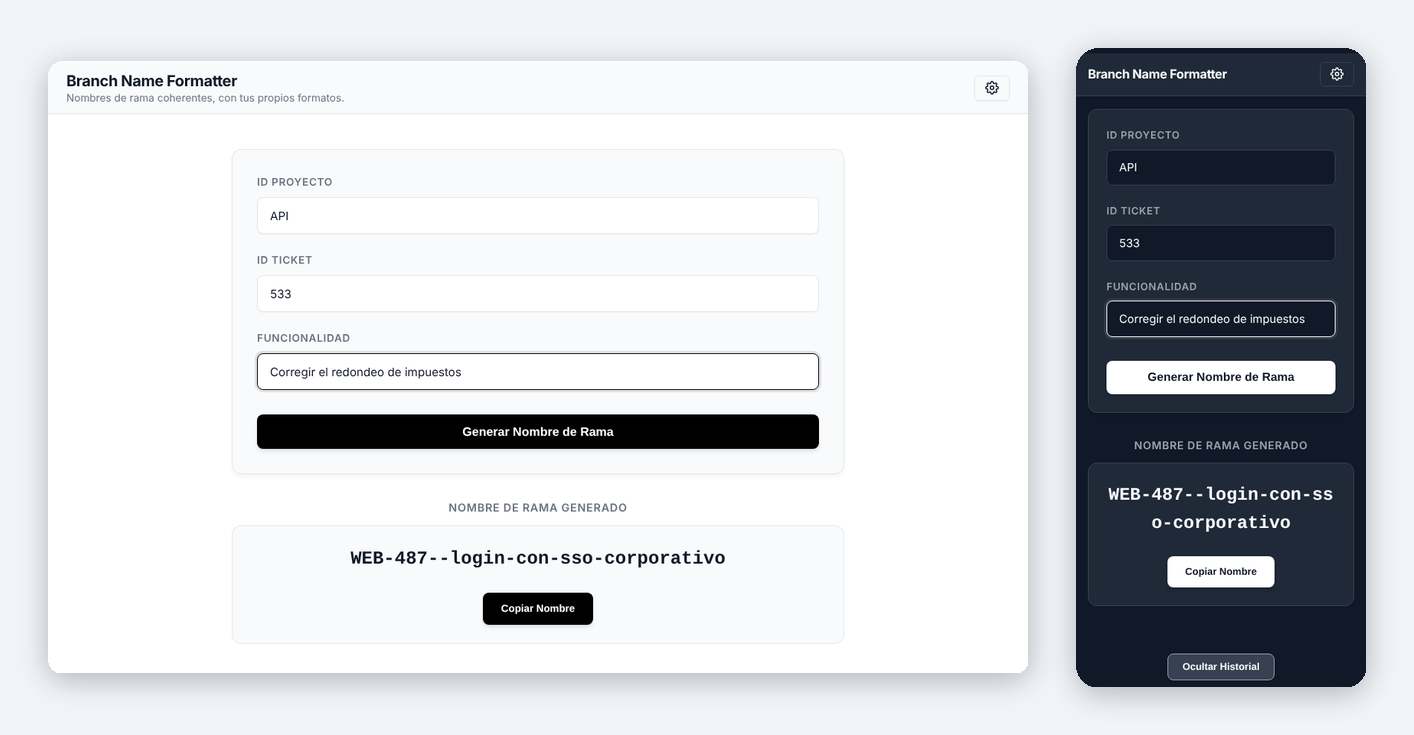
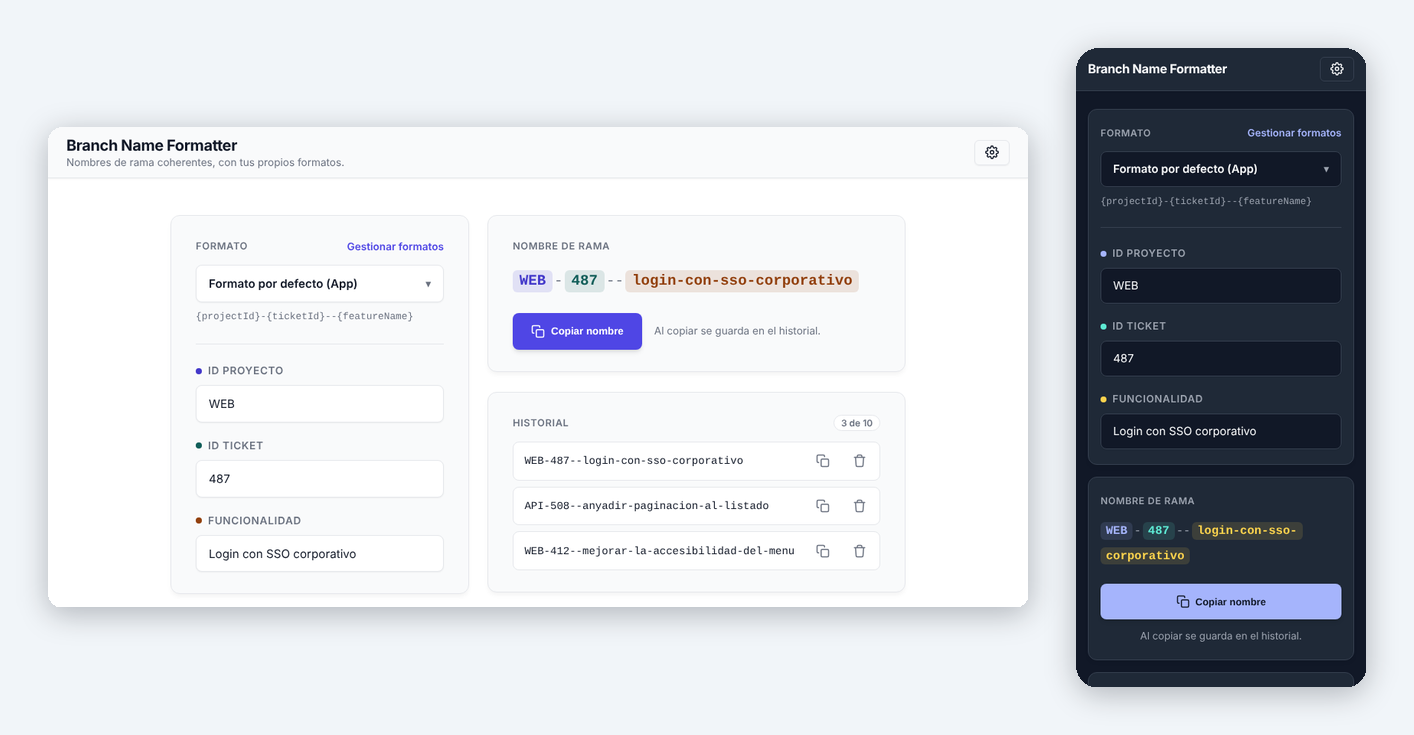
docs: describe the new screens and refresh screenshots
Architecture, README, design system (accent color), changelog, roadmap and the evolution page with a fourth stage, plus new screenshots, hero, comparison images and preview image.

Claude-Session: https://claude.ai/code/session_01JvgcQh45YDJ61aD3bk5PiS

diff --git a/docs/ARCHITECTURE_ES.md b/docs/ARCHITECTURE_ES.md
@@ -9,23 +9,27 @@ El **Branch Name Formatter** está construido con un enfoque en la simplicidad, 
 - **`BranchManager.ts`**: Una clase Singleton que gestiona la lista de ramas generadas, maneja el almacenamiento en `localStorage` (vía `LocalStorageManager`) y limita el historial a 10 registros.
 - **`FormatTypes.ts`**: Tipos del sistema de formatos dinámico — `BranchFormatTemplate` (un formato: id, nombre, plantilla, campos, idioma, visibilidad), `FieldDefinition` (un campo: id, etiqueta, tipo, capitalización), `Capitalization` (`UPPERCASE` / `LOWERCASE` / `AS_IS`) y `LanguageProfile` (los 6 idiomas soportados, usados para el saneado — independiente del idioma de la interfaz).
 - **`FormatManager.ts`**: Una clase estática que define los tres formatos predefinidos y gestiona toda la persistencia de formatos en `localStorage` — formatos personalizados, formatos predefinidos ocultos, el id del formato predeterminado de la app, y los overrides de idioma para formatos predefinidos (el único campo de un formato predefinido que se puede cambiar in situ).
-- **`BranchFormatter.ts`**: Convierte un `BranchFormatTemplate` + los valores de campo en el nombre de rama final. El saneado (tildes, puntos, espacios, caracteres especiales, guiones múltiples, y las reglas específicas por idioma en `LANGUAGE_RULES` para `/` y caracteres como `ñ`/`ß`) se aplica siempre y no es configurable; solo la capitalización por campo lo es.
+- **`FormatTemplate.ts`**: Revisa una plantilla en busca de errores: tokens que no coinciden con ningún campo, campos sin usar e ids de campo repetidos.
+- **`BranchFormatter.ts`**: Convierte un `BranchFormatTemplate` + los valores de campo en el nombre de rama final, o en sus segmentos (`formatSegments`) cuando la interfaz necesita colorear cada campo. El saneado (tildes, puntos, espacios, caracteres especiales, guiones múltiples, y las reglas específicas por idioma en `LANGUAGE_RULES` para `/` y caracteres como `ñ`/`ß`) se aplica siempre y no es configurable; solo la capitalización por campo lo es.
 
-### 2. Capa de Interfaz (`src/components`)
-- **`App.vue`**: Layout raíz — cabecera, hero, y alterna entre la vista principal y la de configuración.
-- **`AppHeader.vue`**: Cabecera fija con el selector de idioma y el botón de configuración.
-- **`AppMainView.vue`** / **`BranchForm.vue`**: El generador de ramas — renderiza dinámicamente los campos del formato seleccionado y emite el nombre generado.
-- **`BranchList.vue`** / **`BranchItem.vue`**: Muestran el historial de ramas.
-- **`AppConfigurationView.vue`**: La pantalla de gestión de formatos — lista todos los formatos, permite elegir el predeterminado de la app, y aloja el editor.
-- **`FormatEditor.vue`**: Edita un formato. Para formatos personalizados, el formulario completo (nombre, plantilla, idioma, campos) es editable. Para formatos predefinidos, solo el interruptor de visibilidad y el idioma son editables; el resto se muestra en solo lectura (clona el formato para personalizarlo del todo).
-- **`FormatPreview.vue`**: Renderiza un ejemplo en vivo del resultado de un formato, usando los propios id de sus campos como valores de ejemplo.
-- **`CustomSelect.vue`** / **`CustomModal.vue`**: Sustitutos compartidos y temáticos de los `<select>` nativos y los diálogos de confirmación, usados en toda la app.
+### 2. Capa de interfaz (`src/components`, `src/composables`)
+La aplicación tiene tres pantallas, que se eligen con el hash de la URL (`src/composables/useRoute.ts`): el generador (`#/`), los formatos (`#/formatos`, `#/formatos/<id>`, `#/formatos/nuevo`) y los ajustes (`#/ajustes`). El botón Atrás del navegador funciona entre ellas. Una pantalla con cambios sin guardar puede registrar una guarda, de modo que al pasar a otra pantalla desde dentro de la aplicación se pregunta antes.
+
+- **`App.vue`**: Estructura raíz. Cabecera, la pantalla que corresponde a la ruta y el pie.
+- **`AppHeader.vue`**: Cabecera fija con el botón de ajustes (componente compartido).
+- **Generador**: `AppMainView.vue` guarda el estado (formato elegido, valores de los campos, historial). `BranchForm.vue` es el selector de formato y los campos; `BranchOutput.vue` muestra el nombre y el botón de copiar; `BranchList.vue` / `BranchItem.vue` son el historial. El nombre se actualiza mientras escribes y al copiar también se guarda en el historial. El formato elegido se guarda como predeterminado, así que es el mismo en la próxima visita.
+- **`BranchName.vue`**: Dibuja un nombre como segmentos, un color por campo del formato (`--seg-1` a `--seg-6` en `base.css`, de forma cíclica), con los separadores en gris. Lo usan el generador y la vista previa del editor. Los segmentos salen de `BranchFormatter.formatSegments`.
+- **Formatos**: `FormatsView.vue` tiene la lista (`FormatList.vue`) a un lado y el detalle al otro, y en pantallas estrechas son dos pasos. Los formatos incluidos se abren en solo lectura (`FormatReadonly.vue`), con un selector de idioma y un botón para clonarlos. Los propios se abren en `FormatEditor.vue`. `FormatPreview.vue` muestra el resultado, con un ejemplo opcional para probar; `FormatTemplateView.vue` dibuja una plantilla con sus tokens en color. El editor avisa de los tokens que no coinciden con ningún campo y de los campos que no están en la plantilla (`src/core/FormatTemplate.ts`), sin impedir guardar.
+- **Ajustes**: `SettingsView.vue` tiene `PersonalizationCard.vue` (idioma y tema, compartida) y `BackupCard.vue` (exportar e importar los formatos, con el resultado en la propia tarjeta).
+- **`CustomSelect.vue`** / **`CustomModal.vue`**: Sustitutos compartidos y con tema de `<select>` nativo y de los diálogos de confirmación. Los modales solo se usan para confirmar un borrado y para preguntar si se descartan cambios.
 - **`LangSelector.vue`** / **`FlagIcon.vue`**: El selector de idioma de la interfaz.
-- **`AppFooter.vue`**: Muestra la versión de la app (desde `package.json`, inyectada en build como `__APP_VERSION__`) enlazada a su release de GitHub, más los enlaces de licencia/código fuente.
+- **`AppIcon.vue`**: Los pocos iconos que usan las pantallas.
+- **`AppFooter.vue`**: Muestra la versión de la aplicación (de `package.json`, inyectada al compilar como `__APP_VERSION__`) enlazada a su release de GitHub, y los enlaces de licencia y código.
+- **Estilos**: los tokens (incluido el color de acento y los colores de los campos) están en `assets/base.css`, y la disposición de las tres pantallas en `assets/branch.css`. El color de acento solo se define aquí, así que las otras herramientas del portafolio mantienen el suyo.
 
 ### 3. Localización (`src/i18n`)
 - Un archivo JSON por idioma soportado (`en`, `es`, `fr`, `de`, `it`, `pt`), cargados por `vue-i18n` en `index.ts`.
-- La mayoría de textos de la interfaz se resuelven con `$t('namespace.clave')`. Los nombres y etiquetas de campo de los formatos predefinidos se guardan como claves i18n (p. ej. `formats.gitflow.name`) dentro de los datos de `FormatManager`, en vez de texto literal, para que sigan el idioma de interfaz seleccionado; los formatos personalizados guardan texto literal en su lugar. Los componentes que muestran el `name`/`label` de un formato comprueban si contiene un punto para decidir si traducirlo o mostrarlo tal cual (ver `BranchForm.vue`, `AppConfigurationView.vue`).
+- La mayoría de textos de la interfaz se resuelven con `$t('namespace.clave')`. Los nombres y etiquetas de campo de los formatos predefinidos se guardan como claves i18n (p. ej. `formats.gitflow.name`) dentro de los datos de `FormatManager`, en vez de texto literal, para que sigan el idioma de interfaz seleccionado; los formatos personalizados guardan texto literal en su lugar. Los componentes que muestran el `name`/`label` de un formato comprueban si contiene un punto para decidir si traducirlo o mostrarlo tal cual (ver `BranchForm.vue`, `FormatList.vue`, `FormatsView.vue`).
 
 ## Privacidad y Datos
 Ningún dato sale del navegador del usuario. La app no usa APIs externas, cookies, analítica ni servicios de rastreo. Todo se almacena en el `localStorage` del navegador.

diff --git a/docs/ARCHITECTURE.md b/docs/ARCHITECTURE.md
@@ -9,23 +9,27 @@ The **Branch Name Formatter** is built with a focus on simplicity, maintainabili
 - **`BranchManager.ts`**: A singleton class that manages the list of generated branches, handles storage in `localStorage` (via `LocalStorageManager`), and limits the history to 10 records.
 - **`FormatTypes.ts`**: Types for the dynamic format system — `BranchFormatTemplate` (a format: id, name, template string, fields, language, visibility), `FieldDefinition` (a field: id, label, type, capitalization), `Capitalization` (`UPPERCASE` / `LOWERCASE` / `AS_IS`), and `LanguageProfile` (the 6 supported languages, used for sanitization rules — independent from the UI language).
 - **`FormatManager.ts`**: A static class that owns the three built-in formats and all persistence for formats in `localStorage` — custom formats, hidden built-in formats, the app's default format id, and language overrides for built-in formats (the only field on a built-in format that can be changed in place).
-- **`BranchFormatter.ts`**: Turns a `BranchFormatTemplate` + raw field values into the final branch name. Sanitization (accents, dots, spaces, special characters, multiple dashes, and the language-specific rules in `LANGUAGE_RULES` for `/` and characters like `ñ`/`ß`) is always applied and is not configurable; only the per-field capitalization is.
+- **`FormatTemplate.ts`**: Checks a template for mistakes: tokens that match no field, fields that are not used and repeated field ids.
+- **`BranchFormatter.ts`**: Turns a `BranchFormatTemplate` + raw field values into the final branch name, or into its segments (`formatSegments`) when the UI needs to color each field. Sanitization (accents, dots, spaces, special characters, multiple dashes, and the language-specific rules in `LANGUAGE_RULES` for `/` and characters like `ñ`/`ß`) is always applied and is not configurable; only the per-field capitalization is.
 
-### 2. UI Layer (`src/components`)
-- **`App.vue`**: Root layout — header, hero, and swaps between the main view and the configuration view.
-- **`AppHeader.vue`**: Sticky header with the language selector and the settings toggle.
-- **`AppMainView.vue`** / **`BranchForm.vue`**: The branch generator — renders the fields of the currently selected format dynamically and emits the generated name.
-- **`BranchList.vue`** / **`BranchItem.vue`**: Display the branch history.
-- **`AppConfigurationView.vue`**: The format management screen — lists all formats, lets you pick the app default, and hosts the editor.
-- **`FormatEditor.vue`**: Edits a format. For custom formats, the full form (name, template, language, fields) is editable. For built-in formats, only the visibility switch and the language are editable; the rest is shown read-only (clone the format to fully customize it).
-- **`FormatPreview.vue`**: Renders a live example of a format's output using its own field ids as placeholder values.
-- **`CustomSelect.vue`** / **`CustomModal.vue`**: Shared, themeable replacements for native `<select>` and confirm dialogs, used throughout the app.
+### 2. UI Layer (`src/components`, `src/composables`)
+The app has three screens, chosen by the hash of the URL (`src/composables/useRoute.ts`): the generator (`#/`), the formats (`#/formatos`, `#/formatos/<id>`, `#/formatos/nuevo`) and the settings (`#/ajustes`). The browser's Back button works between them. A screen with changes that are not saved can register a guard, so that moving to another screen from inside the app asks first.
+
+- **`App.vue`**: Root layout. Header, the screen that matches the route, and the footer.
+- **`AppHeader.vue`**: Sticky header with the settings toggle (shared component).
+- **Generator**: `AppMainView.vue` owns the state (selected format, field values, history). `BranchForm.vue` is the format selector and the fields; `BranchOutput.vue` shows the name and the copy button; `BranchList.vue` / `BranchItem.vue` are the history. The name updates while you type and copying also saves it to the history. The selected format is stored as the default one, so it is the same on the next visit.
+- **`BranchName.vue`**: Draws a name as segments, one color per field of the format (`--seg-1` to `--seg-6` in `base.css`, cycling), with the separators in grey. It is used by the generator and by the preview in the editor. The segments come from `BranchFormatter.formatSegments`.
+- **Formats**: `FormatsView.vue` has the list (`FormatList.vue`) on one side and the detail on the other, and on narrow screens they are two steps. Built-in formats open read-only (`FormatReadonly.vue`), with a language selector and a button to clone them. Custom formats open in `FormatEditor.vue`. `FormatPreview.vue` shows the result, with an optional example to try; `FormatTemplateView.vue` draws a template with its tokens colored. The editor warns about tokens that match no field and fields that are not in the template (`src/core/FormatTemplate.ts`), without blocking the save.
+- **Settings**: `SettingsView.vue` has `PersonalizationCard.vue` (language and theme, shared) and `BackupCard.vue` (export and import of the formats, with the result shown in the card).
+- **`CustomSelect.vue`** / **`CustomModal.vue`**: Shared, themeable replacements for native `<select>` and confirm dialogs. The modals are only used to confirm a delete and to ask about discarding changes.
 - **`LangSelector.vue`** / **`FlagIcon.vue`**: The UI language switcher.
+- **`AppIcon.vue`**: The few icons the screens use.
 - **`AppFooter.vue`**: Shows the app version (from `package.json`, injected at build time as `__APP_VERSION__`) linked to its GitHub release, plus license/source links.
+- **Styles**: the tokens (including the accent color and the colors of the fields) are in `assets/base.css`, and the layout of the three screens in `assets/branch.css`. The accent color is only defined here, so the other portfolio tools keep their own.
 
 ### 3. Localization (`src/i18n`)
 - One JSON file per supported language (`en`, `es`, `fr`, `de`, `it`, `pt`), loaded by `vue-i18n` in `index.ts`.
-- Most UI strings are looked up with `$t('namespace.key')`. Built-in format names and field labels are stored as i18n keys (e.g. `formats.gitflow.name`) inside `FormatManager`'s data rather than literal text, so they follow the selected UI language; custom formats store literal text instead. Components that display a format's `name`/field `label` check for a `.` to decide whether to translate it or show it as-is (see `BranchForm.vue`, `AppConfigurationView.vue`).
+- Most UI strings are looked up with `$t('namespace.key')`. Built-in format names and field labels are stored as i18n keys (e.g. `formats.gitflow.name`) inside `FormatManager`'s data rather than literal text, so they follow the selected UI language; custom formats store literal text instead. Components that display a format's `name`/field `label` check for a `.` to decide whether to translate it or show it as-is (see `BranchForm.vue`, `FormatList.vue`, `FormatsView.vue`).
 
 ## Privacy & Data
 No data ever leaves the user's browser. The app uses no external APIs, cookies, analytics or tracking services. Everything is stored in the browser's `localStorage`.

diff --git a/docs/evolution/README-es.md b/docs/evolution/README-es.md
@@ -4,11 +4,11 @@
 
 Cómo Branch Name Formatter pasó de su primer commit a hoy, con las capturas para verlo.
 
-![Branch Name Formatter en tres etapas, escritorio](branch-name-formatter-evolution-desktop.png)
+![Branch Name Formatter en cuatro etapas, escritorio](branch-name-formatter-evolution-desktop.png)
 
 ## La historia
 
-Branch Name Formatter es la aplicación cuyo diseño más ha cambiado, y su cambio más radical es el rediseño de agosto de 2026. El generador oscuro con una sola fila de campos pasó a ser una herramienta construida alrededor de formatos que defines tú: un editor con vista previa en vivo, mayúsculas por campo, perfiles de idioma y un historial. En octubre se alineó con las otras herramientas, lo que simplificó la página (sin bloque de presentación, los hechos en el pie) y le dio los componentes compartidos.
+Branch Name Formatter es la aplicación cuyo diseño más ha cambiado, y su cambio más radical es el rediseño de agosto de 2026. El generador oscuro con una sola fila de campos pasó a ser una herramienta construida alrededor de formatos que defines tú: un editor con vista previa en vivo, mayúsculas por campo, perfiles de idioma y un historial. En octubre se alineó con las otras herramientas, lo que simplificó la página (sin bloque de presentación, los hechos en el pie) y le dio los componentes compartidos. En noviembre la pantalla principal pasó a ser un banco de trabajo, con el nombre vivo mientras escribes y los formatos en su propia sección.
 
 Versiones: la v0.1.0 (octubre de 2025) y la v0.2.0 (mayo de 2026) se quedan como estaban. El rediseño de agosto de 2026 se documentó como 1.0.0 en el registro de cambios pero nunca se etiquetó; sale ahora junto con el trabajo de octubre.
 
@@ -21,12 +21,13 @@ Versiones: la v0.1.0 (octubre de 2025) y la v0.2.0 (mayo de 2026) se quedan como
 | Mayo de 2026 | v0.2.0: selector de idioma propio con banderas y mejor accesibilidad con teclado. |
 | Agosto de 2026 | Rediseño completo y un nuevo sistema de formatos: el editor de formatos propios con vista previa en vivo, mayúsculas por campo, perfiles de idioma y el historial. |
 | Octubre de 2026 | Software libre (AGPL-3.0), sin Google Analytics ni banner de cookies, un sistema de diseño compartido con las otras dos herramientas, CI que condiciona cada despliegue y la versión 1.0.0, el paso siguiente a la 0.1.0 y la 0.2.0. |
+| Noviembre de 2026 | La pantalla principal se convierte en un banco de trabajo: el nombre se actualiza mientras escribes, cada campo de su color, y copiar lo guarda en el historial en un solo paso. Los formatos tienen su propia sección, con una lista y un detalle, un ejemplo para probar y un aviso de errores en la plantilla. Los ajustes conservan el idioma, el tema y la copia de seguridad. Acento índigo. |
 
 ## En cifras
 
 | | Antes (agosto de 2026) | Ahora |
 | --- | --- | --- |
-| Tests automáticos | 63 | 80 |
+| Tests automáticos | 63 | 129 |
 | Licencia | Todos los derechos reservados | AGPL-3.0 |
 | Analítica | Google Analytics y banner de cookies | Ninguna |
 | Despliegue | Solo si pasan los tests | Solo si pasan lint, formato, componentes compartidos, tests y build |
@@ -36,11 +37,11 @@ La columna "antes" es el estado del proyecto el 28 de agosto de 2026, justo ante
 
 ## Imágenes
 
-Todas las imágenes están en esta carpeta y en [`../screenshots`](../screenshots); usan datos de ejemplo.
+Todas las imágenes están en esta carpeta y en [`../screenshots`](../screenshots); usan datos de ejemplo y no muestran las teselas del mapa porque se capturaron sin conexión.
 
-- [`branch-name-formatter-evolution-desktop.png`](branch-name-formatter-evolution-desktop.png): Tres etapas una junto a otra, en escritorio
-- [`branch-name-formatter-evolution-mobile.png`](branch-name-formatter-evolution-mobile.png): Las mismas tres etapas en el móvil
-- [`branch-name-formatter-formats.png`](../screenshots/branch-name-formatter-formats.png): El editor de formatos propios
+- [`branch-name-formatter-evolution-desktop.png`](branch-name-formatter-evolution-desktop.png): Cuatro etapas una junto a otra, en escritorio
+- [`branch-name-formatter-evolution-mobile.png`](branch-name-formatter-evolution-mobile.png): Las mismas cuatro etapas en el móvil
+- [`branch-name-formatter-formats.png`](../screenshots/branch-name-formatter-formats.png): La sección de formatos propios, con el editor y el ejemplo para probar
 
 ## Cómo se ha construido
 

diff --git a/docs/evolution/README.md b/docs/evolution/README.md
@@ -4,11 +4,11 @@
 
 How Branch Name Formatter went from its first commit to today, with the screenshots to show it.
 
-![Branch Name Formatter at three stages, desktop](branch-name-formatter-evolution-desktop.png)
+![Branch Name Formatter at four stages, desktop](branch-name-formatter-evolution-desktop.png)
 
 ## The story
 
-Branch Name Formatter is the app whose design changed the most, and its most radical change is the redesign of August 2026. The dark generator with a single row of fields became a tool built around formats you define yourself: an editor with live preview, capitalization per field, language profiles and a history. In October it was aligned with the other tools, which simplified the page (no hero block, facts in the footer) and gave it the shared components.
+Branch Name Formatter is the app whose design changed the most, and its most radical change is the redesign of August 2026. The dark generator with a single row of fields became a tool built around formats you define yourself: an editor with live preview, capitalization per field, language profiles and a history. In October it was aligned with the other tools, which simplified the page (no hero block, facts in the footer) and gave it the shared components. In November the main screen became a workbench, with the name alive while you type and the formats in their own section.
 
 Releases: v0.1.0 (October 2025) and v0.2.0 (May 2026) stay as they were. The August 2026 redesign was written up as 1.0.0 in the changelog but never tagged; it ships now together with the October work.
 
@@ -21,12 +21,13 @@ Releases: v0.1.0 (October 2025) and v0.2.0 (May 2026) stay as they were. The Aug
 | May 2026 | v0.2.0: custom language selector with flags and better keyboard accessibility. |
 | August 2026 | Full redesign and a new format system: the editor for your own formats with live preview, capitalization per field, language profiles and the history. |
 | October 2026 | Free software (AGPL-3.0), no Google Analytics or cookie banner, one design system shared with the other two tools, CI that gates every deploy, and version 1.0.0, the next step after 0.1.0 and 0.2.0. |
+| November 2026 | The main screen becomes a workbench: the name updates while you type, each field in its own color, and copying saves it to the history in one step. The formats get their own section, with a list and a detail, an example to try and a warning for template typos. The settings keep the language, the theme and the backup. Indigo accent. |
 
 ## In numbers
 
 | | Before (August 2026) | Now |
 | --- | --- | --- |
-| Automated tests | 63 | 80 |
+| Automated tests | 63 | 129 |
 | License | All rights reserved | AGPL-3.0 |
 | Analytics | Google Analytics and a cookie banner | None |
 | Deploy | Only if the tests pass | Only if lint, format, shared components, tests and build pass |
@@ -36,11 +37,11 @@ The "before" column is the state of the project on 28 August 2026, just before t
 
 ## Images
 
-All the images are in this folder and in [`../screenshots`](../screenshots); they use sample data.
+All the images are in this folder and in [`../screenshots`](../screenshots); they use sample data, and the map tiles are not shown because they were captured offline.
 
-- [`branch-name-formatter-evolution-desktop.png`](branch-name-formatter-evolution-desktop.png): Three stages side by side, desktop
-- [`branch-name-formatter-evolution-mobile.png`](branch-name-formatter-evolution-mobile.png): The same three stages on a phone
-- [`branch-name-formatter-formats.png`](../screenshots/branch-name-formatter-formats.png): The editor for your own formats
+- [`branch-name-formatter-evolution-desktop.png`](branch-name-formatter-evolution-desktop.png): Four stages side by side, desktop
+- [`branch-name-formatter-evolution-mobile.png`](branch-name-formatter-evolution-mobile.png): The same four stages on a phone
+- [`branch-name-formatter-formats.png`](../screenshots/branch-name-formatter-formats.png): The section for your own formats, with the editor and the example to try
 
 ## How it was built
 

diff --git a/README-es.md b/README-es.md
@@ -11,10 +11,12 @@ Todo el procesamiento se realiza localmente en tu navegador web, garantizando un
 ![Branch Name Formatter en escritorio y móvil](docs/screenshots/branch-name-formatter-hero.png)
 
 ## Características Clave
-- **Formatos de Rama Dinámicos:** Incluye tres formatos listos para usar (formato por defecto, GitFlow, Conventional Commits) y permite crear, clonar, editar o borrar los tuyos propios desde la pantalla de Configuración, con previsualización en vivo mientras escribes.
+- **Nombre en vivo:** El nombre de la rama se actualiza mientras escribes, con cada campo de su color. Al copiarlo se guarda también en el historial, y el formato que elegiste es el que encuentras la próxima vez.
+- **Tus propios formatos:** Incluye tres formatos listos para usar (formato por defecto, GitFlow, Conventional Commits) y tiene su propia sección para crear, clonar, editar o borrar los tuyos, con previsualización en vivo, un ejemplo opcional para probar y un aviso si la plantilla tiene un error.
 - **Nombres Siempre Válidos:** El saneado (quitar tildes, espacios, puntos, caracteres especiales, colapsar guiones...) se aplica siempre, así que cada nombre generado es un nombre de rama válido en git. Solo eliges la capitalización por campo (mayúsculas, minúsculas o tal cual).
 - **Saneado Consciente del Idioma:** Cada formato tiene un idioma asociado (los 6 idiomas que soporta la app) que controla cómo se traducen la `/` y caracteres específicos de cada idioma (`ñ`, `ß`...) al nombre de la rama.
-- **Gestión de Historial:** Mantiene un registro de tus últimos 10 nombres generados para un acceso rápido (almacenado localmente).
+- **Historial:** Guarda tus últimos 10 nombres copiados para un acceso rápido (almacenado localmente).
+- **Copia de seguridad:** Exporta tus formatos a un archivo e impórtalos en otro equipo, desde los Ajustes.
 - **Procesamiento Local:** Todo sucede en el lado del cliente. Sin almacenamiento ni procesamiento en servidor de tus datos de ramas.
 - **Sin rastreo:** sin cookies, sin analítica y sin registro.
 - **Interfaz:** Diseño limpio, profesional y responsivo con soporte nativo para modo oscuro/claro.

diff --git a/docs/DESIGN-SYSTEM-es.md b/docs/DESIGN-SYSTEM-es.md
@@ -22,7 +22,7 @@ La lista está en `shared-components.json`, junto con el SHA-256 de cada fichero
 
 - **`src/app.config.ts`** contiene lo que cambia entre las apps: el repositorio y el autor. Los componentes compartidos lo leen en lugar de llevar nombres escritos a mano.
 - **Las traducciones.** Cada app tiene sus diccionarios, pero los componentes compartidos necesitan un conjunto común de claves (`header.*`, `footer.*`, `settings.*` y `shared.select_option`). Un test de cada repo comprueba que los seis idiomas las definen.
-- **Los estilos globales.** Los tokens de diseño y las clases de formularios y configuración viven en el CSS global de cada app y deben mantener los mismos nombres y valores.
+- **Los estilos globales.** Los tokens de diseño y las clases de formularios y configuración viven en el CSS global de cada app y deben mantener los mismos nombres. Los valores son iguales en todas las apps, salvo el color de acento.
 
 ## Tokens de diseño
 
@@ -34,8 +34,10 @@ La lista está en `shared-components.json`, junto con el SHA-256 de cada fichero
 | `--text-main` | `#111827` | `#f9fafb` |
 | `--text-muted` | `#6b7280` | `#9ca3af` |
 | `--border-color` | `#e5e7eb` | `#374151` |
-| `--accent-color` | `#000000` | `#ffffff` |
+| `--accent-color` | `#000000` (cada app puede elegir el suyo) | `#ffffff` (cada app puede elegir el suyo) |
 | `--error-color` | `#ef4444` | `#f87171` |
+
+El color de acento es lo único que una app puede cambiar para tener identidad propia sin tocar los componentes compartidos: estos solo leen `--accent-color` y `--bg-body`, así que sirve cualquier color con contraste suficiente con ambos. Branch Name Formatter usa índigo (`#4f46e5` en claro y `#a5b4fc` en oscuro). Los tokens `--seg-1` a `--seg-6`, los colores de los campos de un nombre de rama, son propios de Branch.
 
 Las tarjetas usan `--bg-surface` sobre `--bg-body`, los controles usan `--bg-body`, y los radios son de 8 px en controles y de 12 px en tarjetas.
 

diff --git a/CHANGELOG.md b/CHANGELOG.md
@@ -7,6 +7,26 @@ and this project uses [Semantic Versioning](https://semver.org/). The version
 number lives in a single place, `package.json`, and is shown live in the app
 footer.
 
+## [Unreleased]
+
+### Added
+- The name updates while you type, with each field of the format in its own color. The generate button is gone: **Copy name** copies it and saves it to the history in one step, and pressing Enter does the same once every field is filled in.
+- The format selector is on the main screen. The format you choose is the default one the next time.
+- A section for formats (`#/formatos`) with the list on one side and the detail on the other, in two steps on narrow screens. Built-in formats open read-only with **Clone to edit**, and custom formats can also be cloned.
+- **Try it with an example** in the preview of a format, to see how the capitalization and the language profile change a real text.
+- A warning in the template of the editor for tokens that match no field and for fields that are not in the template.
+- Routes in the URL hash (`#/`, `#/formatos`, `#/ajustes`) so that the Back button works. Leaving the editor with changes that are not saved asks first.
+- The result of importing formats is shown in the Backup card of the settings instead of a browser dialog.
+
+### Changed
+- Indigo accent color, in light and dark themes. The shared components keep working as before and the other portfolio tools keep their own accent.
+- The settings screen now has only the language, the theme and the backup of the formats. Editing formats moved to its own section.
+- The history uses icon buttons, and the delete button is only red on hover, using the error color of the theme.
+- Texts of the editor are in sentence case in all six languages.
+
+### Removed
+- `AppConfigurationView.vue`, replaced by the formats and settings screens.
+
 ## [1.0.0] - 2026-11-01
 
 First stable release. It brings the tool up to the standard of the other

diff --git a/README.md b/README.md
@@ -11,10 +11,12 @@ All processing is done locally in your web browser, ensuring **complete control*
 ![Branch Name Formatter on desktop and mobile](docs/screenshots/branch-name-formatter-hero.png)
 
 ## Key Features
-- **Dynamic Branch Formats:** Comes with three ready-to-use formats (default app format, GitFlow, Conventional Commits) and lets you create, clone, edit, or delete your own from the Settings screen, with a live preview as you type.
+- **Live name:** The branch name updates as you type, with each field in its own color. Copying it also saves it to the history, and the format you chose is the one you find next time.
+- **Your own formats:** Comes with three ready-to-use formats (default app format, GitFlow, Conventional Commits) and has its own section to create, clone, edit or delete yours, with a live preview, an optional example to try and a warning if the template has a typo.
 - **Guaranteed Valid Names:** Sanitization (removing accents, spaces, dots, special characters, collapsing dashes...) is always applied, so every generated name is a valid git branch name. You only choose the capitalization per field (uppercase, lowercase, or as-is).
 - **Language-Aware Sanitization:** Each format has a language profile (matching the app's 6 supported languages) that controls how `/` and language-specific characters (`ñ`, `ß`...) are translated into the branch name.
-- **History Management:** Keeps track of your last 10 generated names for quick access (stored locally).
+- **History:** Keeps your last 10 copied names for quick access (stored locally).
+- **Backup:** Export your formats to a file and import them on another computer, from the Settings.
 - **Local Processing:** Everything happens client-side. No server-side storage or processing of your branch data.
 - **No Tracking:** No cookies, no analytics and no sign-up.
 - **Interface:** Clean, professional, and responsive design with native dark/light mode support.

diff --git a/docs/DESIGN-SYSTEM.md b/docs/DESIGN-SYSTEM.md
@@ -22,7 +22,7 @@ The list lives in `shared-components.json`, together with the SHA-256 of each fi
 
 - **`src/app.config.ts`** holds what differs between the apps: the repository and the author. The shared components read it instead of hard-coding names.
 - **Translations.** Each app has its own dictionaries, but the shared components need a common set of keys (`header.*`, `footer.*`, `settings.*` and `shared.select_option`). A test in each repo checks that all six languages define them.
-- **Global styles.** The design tokens and the form and settings classes live in each app's global CSS and must keep the same names and values.
+- **Global styles.** The design tokens and the form and settings classes live in each app's global CSS and must keep the same names. The values are the same in every app, except the accent color.
 
 ## Design tokens
 
@@ -34,8 +34,10 @@ The list lives in `shared-components.json`, together with the SHA-256 of each fi
 | `--text-main` | `#111827` | `#f9fafb` |
 | `--text-muted` | `#6b7280` | `#9ca3af` |
 | `--border-color` | `#e5e7eb` | `#374151` |
-| `--accent-color` | `#000000` | `#ffffff` |
+| `--accent-color` | `#000000` (each app may choose its own) | `#ffffff` (each app may choose its own) |
 | `--error-color` | `#ef4444` | `#f87171` |
+
+The accent color is the one thing an app can change to have its own identity without touching the shared components: they only read `--accent-color` and `--bg-body`, so any color with enough contrast against both works. Branch Name Formatter uses indigo (`#4f46e5` in light, `#a5b4fc` in dark). The tokens `--seg-1` to `--seg-6`, the colors of the fields in a branch name, are specific to Branch.
 
 Cards use `--bg-surface` over `--bg-body`, controls use `--bg-body`, and radii are 8 px for controls and 12 px for cards.
 

diff --git a/docs/ROADMAP-es.md b/docs/ROADMAP-es.md
@@ -6,8 +6,8 @@ Lo que hace Branch Name Formatter hoy y hacia dónde podría ir. Las ideas está
 
 ## Lo que hace hoy
 
-- Generar nombres de rama de Git válidos y coherentes con tres formatos incluidos (el de la app, GitFlow y Conventional Commits).
-- Crear, clonar, editar y borrar tus propios formatos, con vista previa en vivo; importarlos y exportarlos.
+- Generar nombres de rama de Git válidos y coherentes con tres formatos incluidos (el de la app, GitFlow y Conventional Commits). El nombre se actualiza mientras escribes, con cada campo de su color, y al copiarlo se guarda también en el historial.
+- Crear, clonar, editar y borrar tus propios formatos en su propia sección, con vista previa en vivo, un ejemplo para probar y un aviso de errores en la plantilla; importarlos y exportarlos desde los ajustes.
 - Saneado que siempre da nombres válidos, con un perfil de idioma por formato (seis idiomas).
 - Historial de los últimos diez nombres, guardado en el dispositivo.
 

diff --git a/docs/ROADMAP.md b/docs/ROADMAP.md
@@ -6,8 +6,8 @@ What Branch Name Formatter does today and where it could go. The ideas are order
 
 ## What it does today
 
-- Generate valid, consistent Git branch names from three built-in formats (app default, GitFlow, Conventional Commits).
-- Create, clone, edit and delete your own formats, with a live preview; import and export them.
+- Generate valid, consistent Git branch names from three built-in formats (app default, GitFlow, Conventional Commits). The name updates while you type, with each field in its own color, and copying it also saves it to the history.
+- Create, clone, edit and delete your own formats in their own section, with a live preview, an example to try and a warning for template typos; import and export them from the settings.
 - Sanitization that always yields valid names, with a language profile per format (six languages).
 - A history of the last ten names, kept on the device.
 
